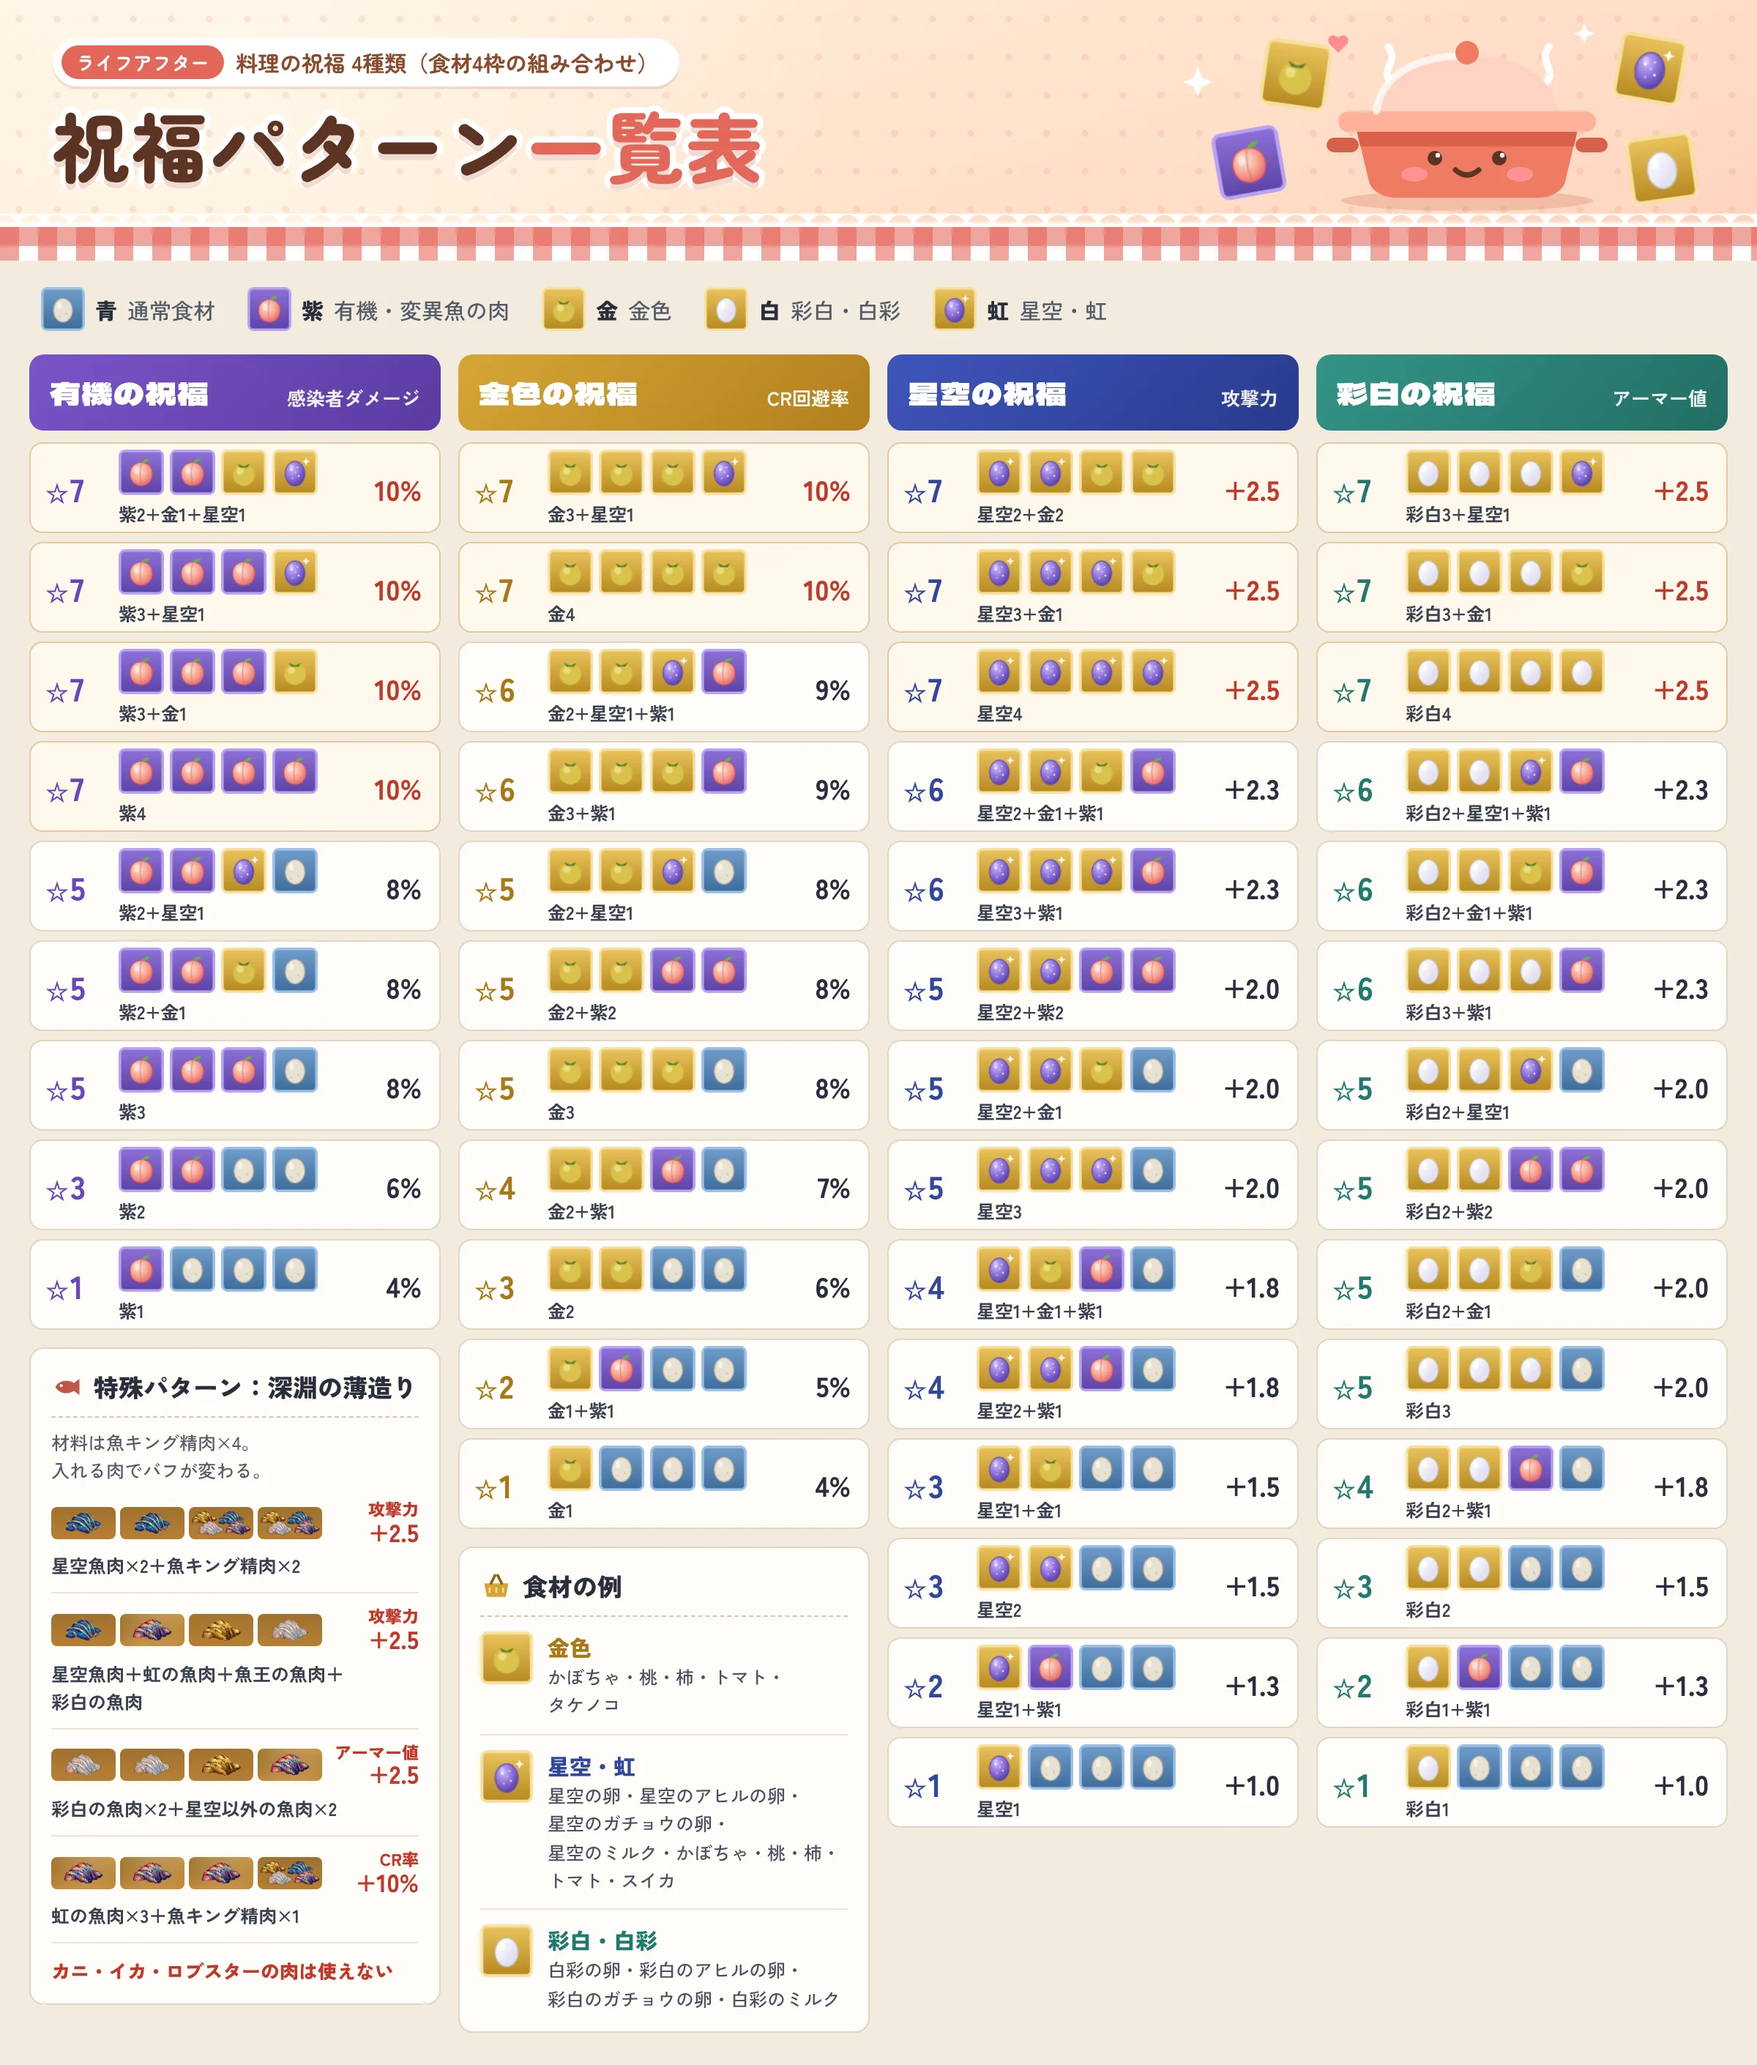
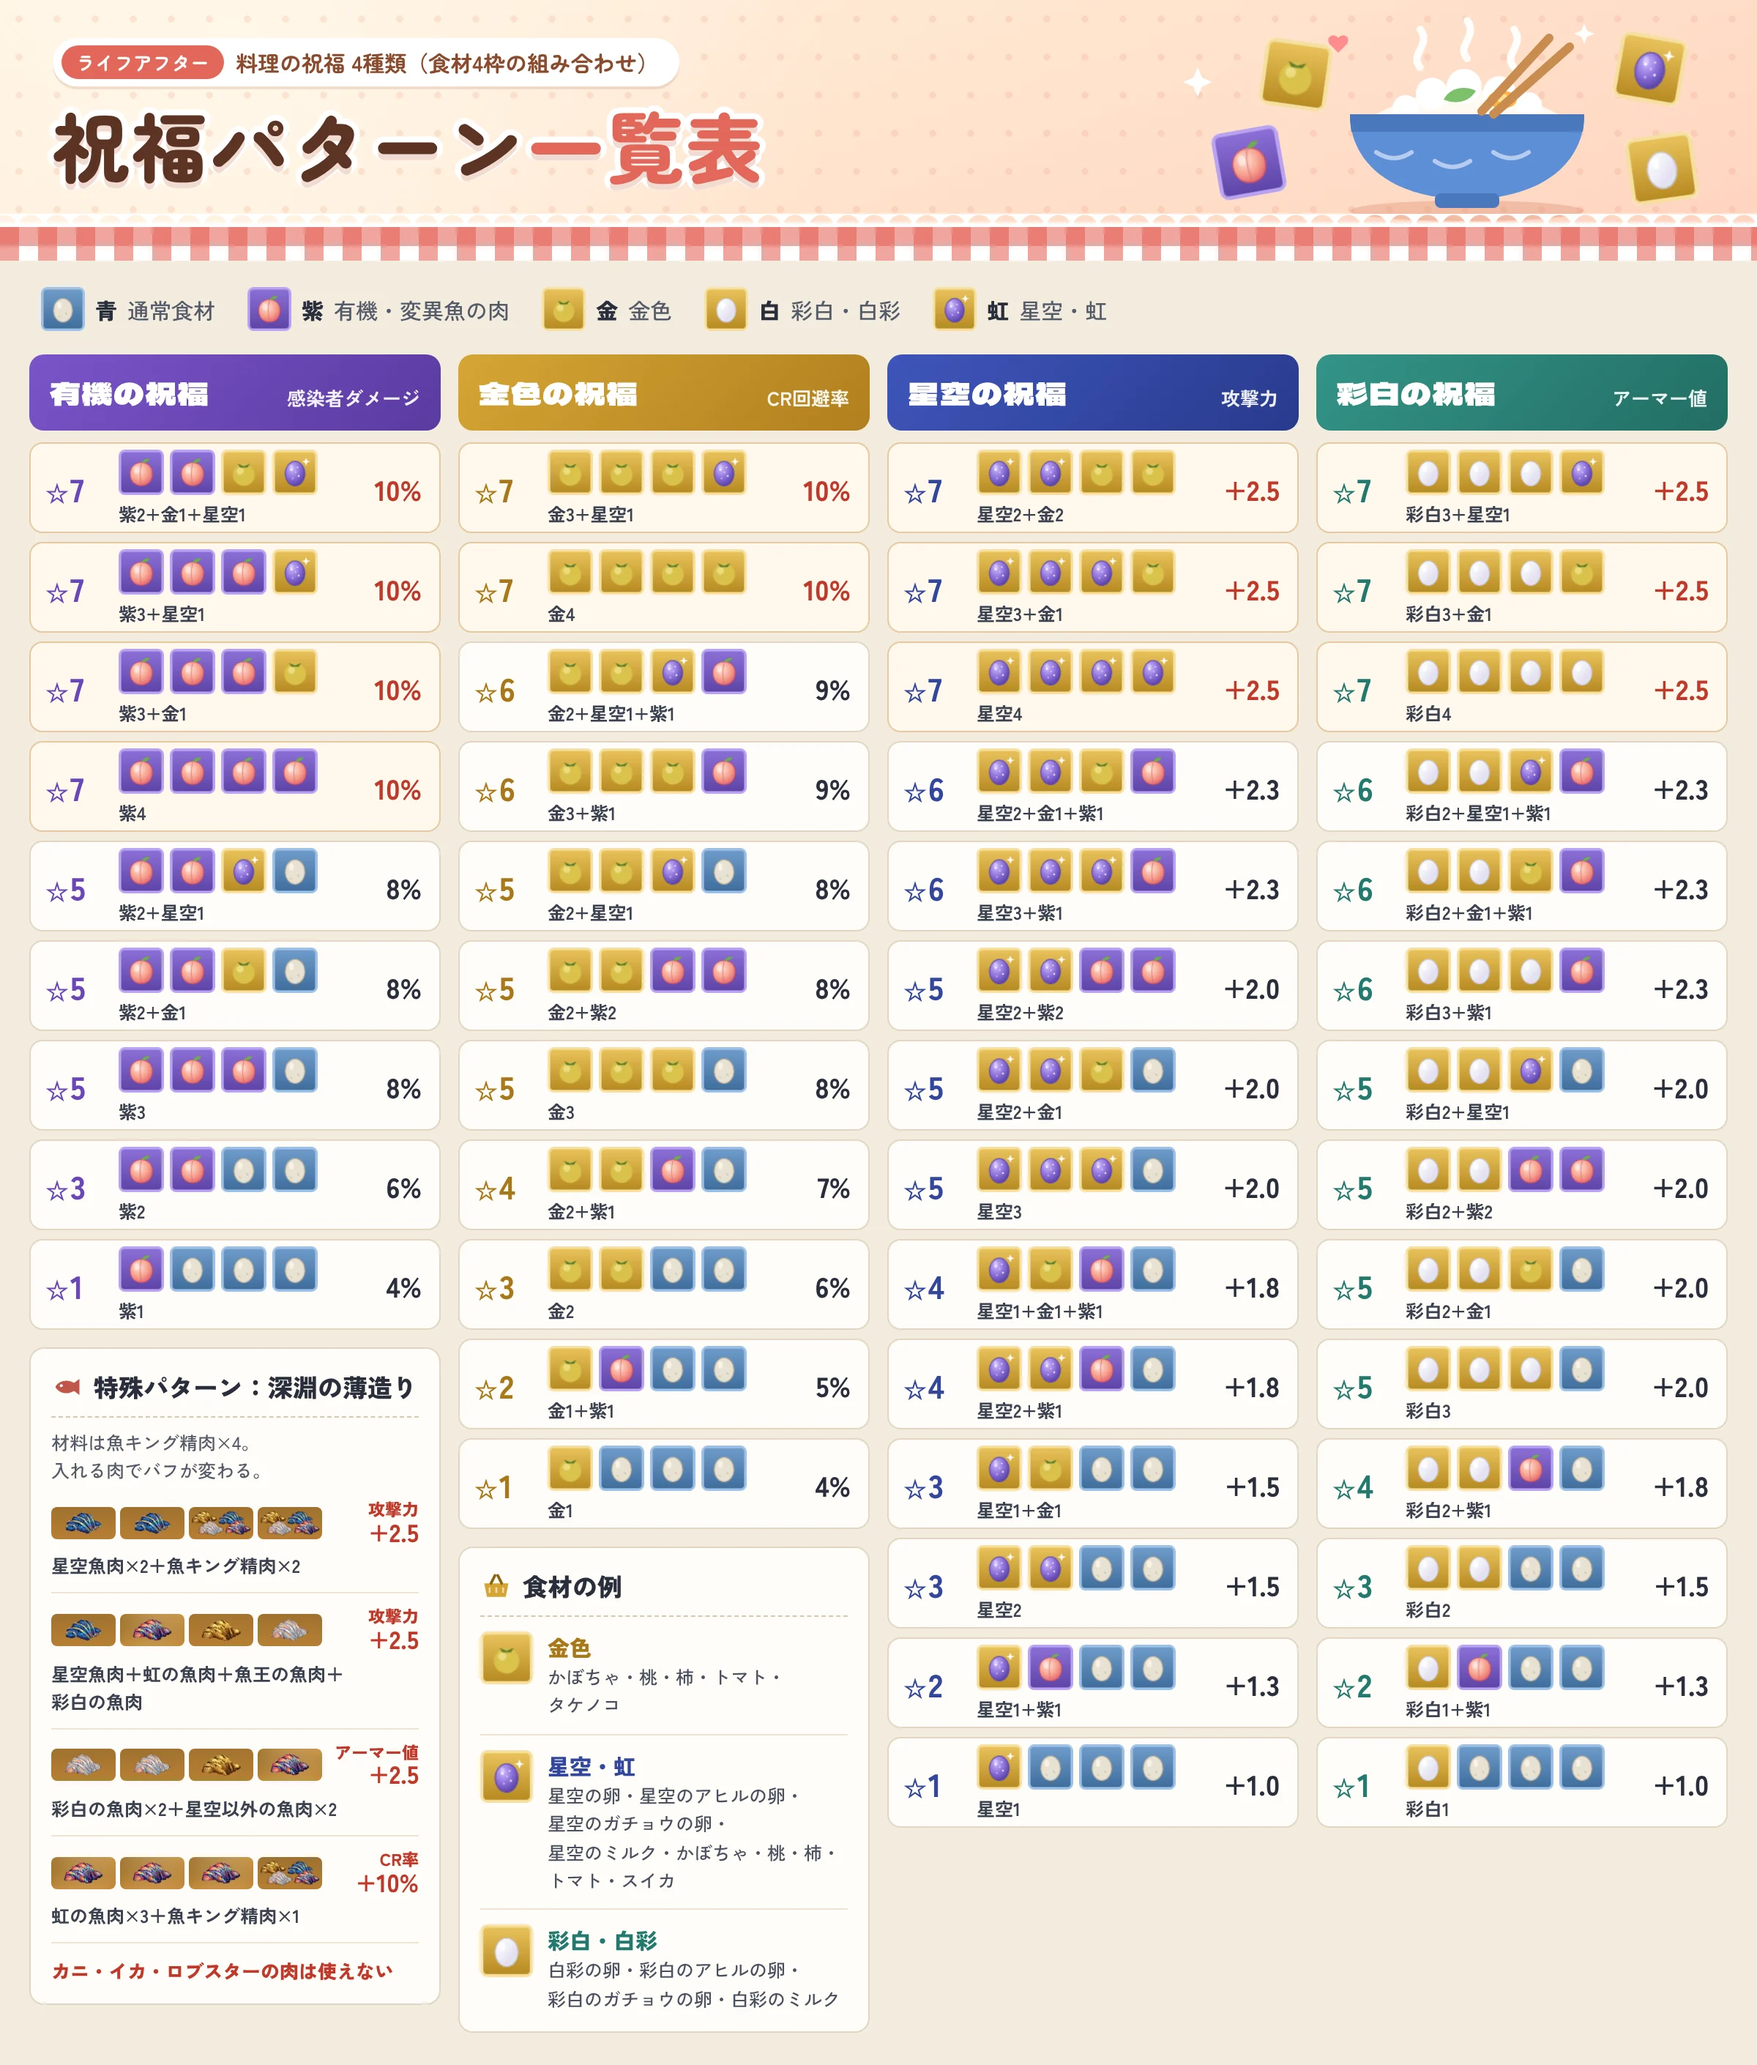
料理の祝福の一覧表: ヘッダーのお鍋をごはん茶碗のイラストに変更
Claude-Session: https://claude.ai/code/session_01JDrZAp3hvDcbYBs1e47Dmg

Changed region(s): [[0.75, 0.0, 0.9062, 0.1248]]

diff --git a/tools/blessing/tpl.html b/tools/blessing/tpl.html
@@ -60,17 +60,16 @@ body{width:1200px;background:#f3ecdf;font-family:"Zen Kaku Gothic New",sans-seri
 <symbol id="ibasket" viewBox="0 0 24 24"><path d="M3 10h18l-2 10H5z" fill="#d6a535"/><path d="M8 10l3-6M16 10l-3-6" stroke="#8a6414" stroke-width="2" stroke-linecap="round"/><path d="M7 13v4M12 13v4M17 13v4" stroke="#fff" stroke-width="1.4" opacity=".6"/></symbol>
 </defs></svg>
 <header class="hd"><div class="dots"></div><div class="kick"><i>ライフアフター</i>料理の祝福 4種類（食材4枠の組み合わせ）</div><h1>祝福パターン<em>一覧表</em></h1><svg class="art" viewBox="0 0 380 150">
-<g fill="none" stroke="#fff" stroke-width="5" stroke-linecap="round" opacity=".95"><path d="M160 50c-8-8 6-14-2-24"/><path d="M266 50c8-8-6-14 2-24"/></g>
-<ellipse cx="212" cy="131" rx="86" ry="7" fill="#d98a6b" opacity=".35"/>
-<path d="M136 80h152l-9 38c-2 7-10 11-19 11h-96c-9 0-17-4-19-11z" fill="#f07b62"/>
-<path d="M136 80h152l-3 14H139z" fill="#d9604a"/>
-<rect x="124" y="70" width="176" height="14" rx="7" fill="#ffb199"/>
-<rect x="116" y="88" width="22" height="10" rx="5" fill="#d9604a"/><rect x="286" y="88" width="22" height="10" rx="5" fill="#d9604a"/>
-<path d="M150 70c4-26 28-38 62-38s58 12 62 38z" fill="#ffd3c4"/><path d="M150 70c4-26 28-38 62-38" fill="none" stroke="#fff" stroke-width="5" stroke-linecap="round" opacity=".7"/>
-<circle cx="212" cy="30" r="8" fill="#f07b62"/>
-<circle cx="190" cy="102" r="5" fill="#5b3424"/><circle cx="234" cy="102" r="5" fill="#5b3424"/><circle cx="192" cy="100" r="1.6" fill="#fff"/><circle cx="236" cy="100" r="1.6" fill="#fff"/>
-<path d="M204 110q8 7 16 0" fill="none" stroke="#5b3424" stroke-width="3.5" stroke-linecap="round"/>
-<ellipse cx="176" cy="113" rx="9" ry="5" fill="#ff9aa0" opacity=".8"/><ellipse cx="248" cy="113" rx="9" ry="5" fill="#ff9aa0" opacity=".8"/>
+<g fill="none" stroke="#fff" stroke-width="5" stroke-linecap="round" opacity=".95"><path d="M180 40c-8-9 8-15 0-26"/><path d="M212 34c-8-9 8-15 0-26"/><path d="M244 40c-8-9 8-15 0-26"/></g>
+<ellipse cx="212" cy="138" rx="80" ry="7" fill="#d98a6b" opacity=".35"/>
+<path d="M150 72q62-34 124 0z" fill="#fffaf2"/>
+<circle cx="170" cy="68" r="9" fill="#fff"/><circle cx="188" cy="58" r="11" fill="#fff"/><circle cx="210" cy="53" r="12" fill="#fff"/><circle cx="234" cy="57" r="11" fill="#fff"/><circle cx="254" cy="66" r="9" fill="#fff"/>
+<path d="M196 62c4-8 14-10 22-6-4 7-13 10-22 6z" fill="#7cc06a"/><ellipse cx="236" cy="62" rx="10" ry="6" fill="#ffb347"/><ellipse cx="236" cy="61" rx="4" ry="3" fill="#ffe08a"/>
+<path d="M132 72h160c0 34-30 58-80 58s-80-24-80-58z" fill="#5d8fd8"/>
+<path d="M132 72h160c0 4-.3 8-1 12H133c-.7-4-1-8-1-12z" fill="#4a77bd"/>
+<path d="M150 98q12 8 24 0M190 104q12 8 24 0M230 98q12 8 24 0" fill="none" stroke="#fff" stroke-width="3" stroke-linecap="round" opacity=".55"/>
+<rect x="190" y="126" width="44" height="10" rx="4" fill="#4a77bd"/>
+<path d="M268 20l-46 50M282 26l-52 46" stroke="#c98b4f" stroke-width="6" stroke-linecap="round"/>
 <image href="ic_P.png" x="40" y="82" width="46" height="46" transform="rotate(-10 63 105)"/>
 <image href="ic_G.png" x="72" y="22" width="46" height="46" transform="rotate(8 95 45)"/>
 <image href="ic_S.png" x="314" y="18" width="46" height="46" transform="rotate(10 337 41)"/>
